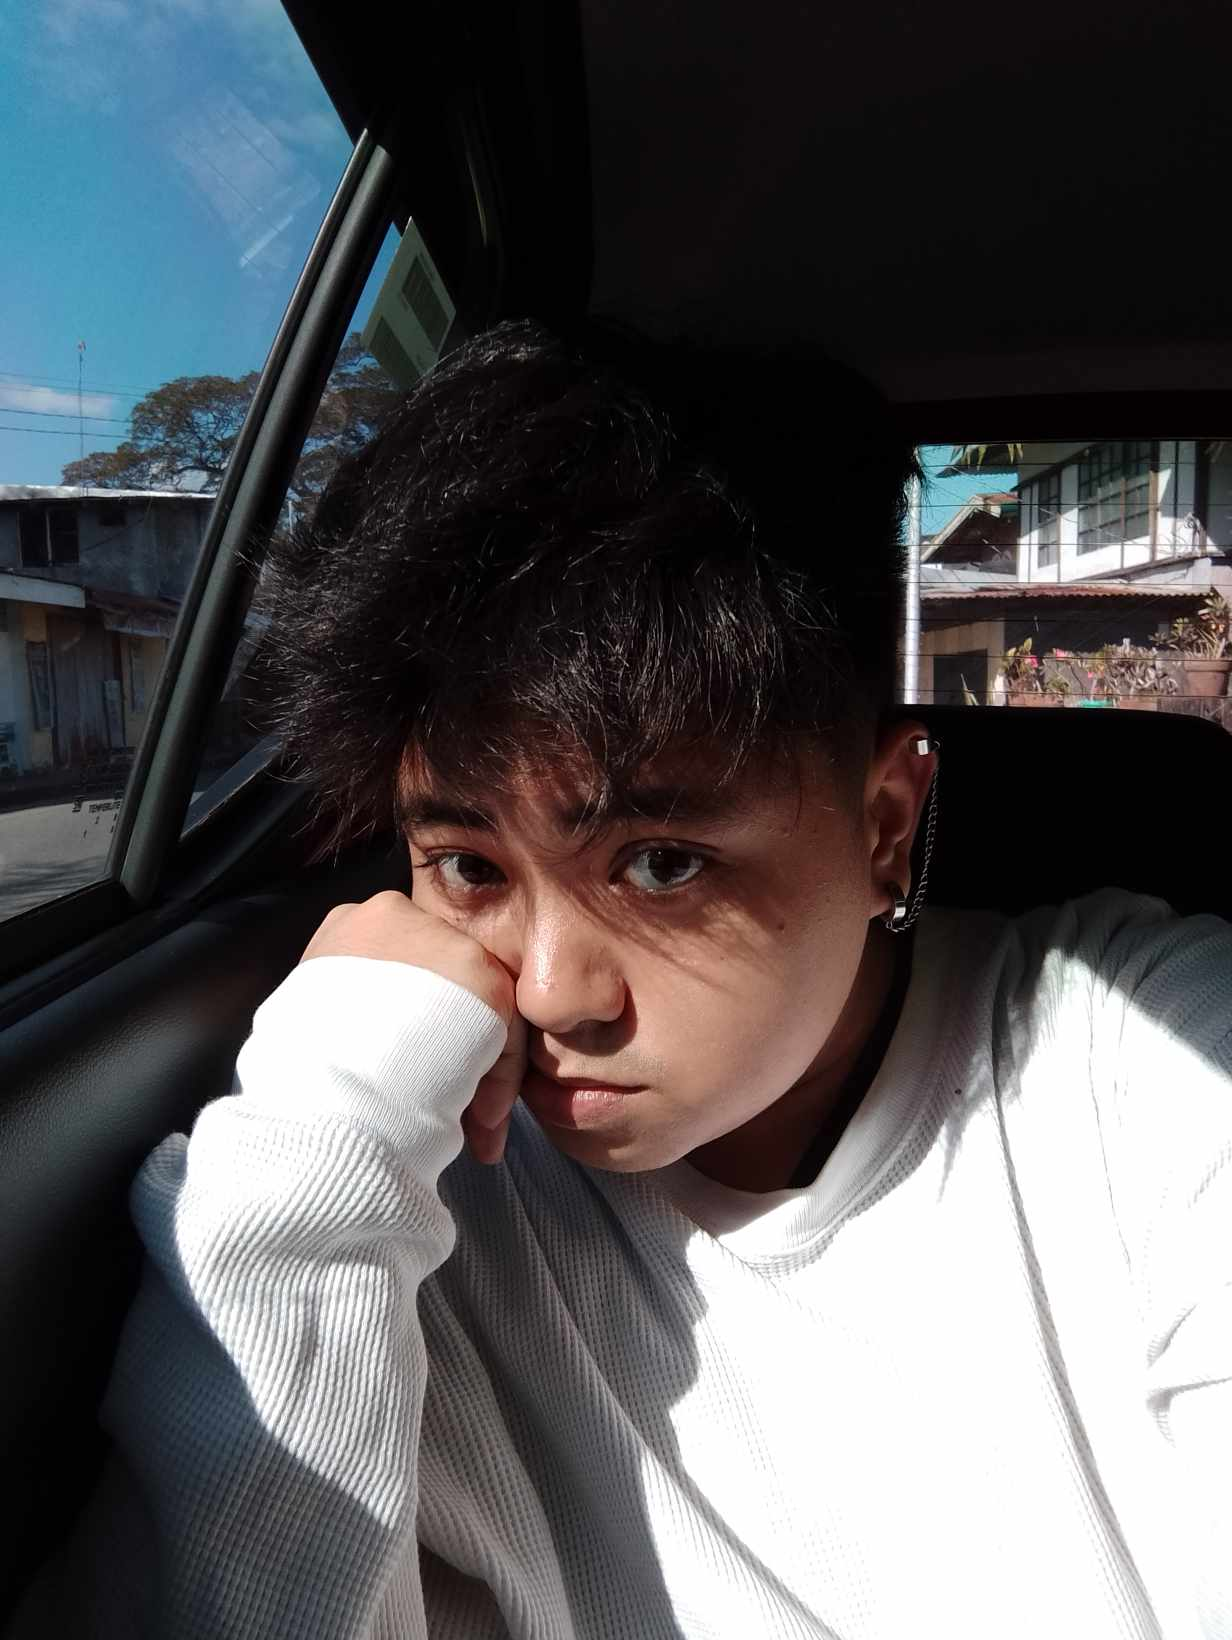
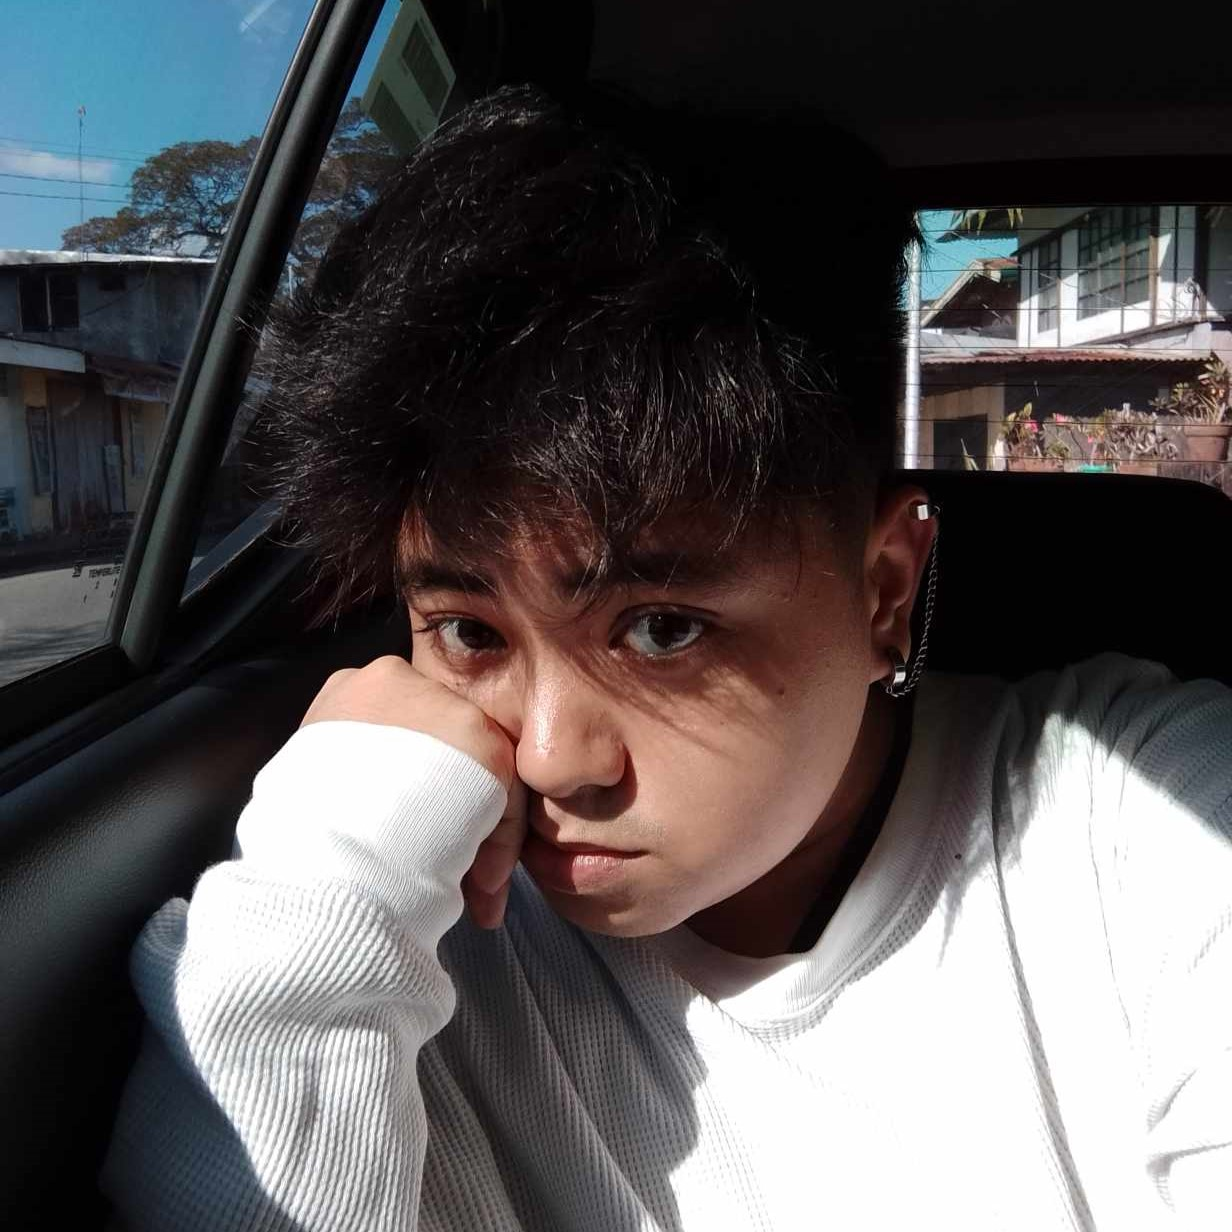
add pic

diff --git a/index.html b/index.html
@@ -428,11 +428,11 @@
                   <div class="card-wrapper">
 
                     <div class="profile-card">
-                      <img src="img/pusa.png" width="48" height="48" loading="lazy" alt="Joseph"
+                      <img src="img/413176132_1490694741788327_6171468843337700105_n.jpg" width="48" height="48" loading="lazy" alt="Joseph"
                         class="profile-banner">
 
                       <div>
-                        <p class="card-title">Yajie</p>
+                        <p class="card-title">Carlos Yajie</p>
 
                         <p class="card-subtitle">1 May 2024</p>
                       </div>
@@ -484,7 +484,7 @@
                         class="profile-banner">
 
                       <div>
-                        <p class="card-title">Joseph</p>
+                        <p class="card-title">Ryle Calingasan</p>
 
                         <p class="card-subtitle">25 Nov 2022</p>
                       </div>
@@ -536,7 +536,7 @@
                         class="profile-banner">
 
                       <div>
-                        <p class="card-title">Joseph</p>
+                        <p class="card-title">Kurt Isaac</p>
 
                         <p class="card-subtitle">25 Nov 2022</p>
                       </div>
@@ -584,11 +584,11 @@
                   <div class="card-wrapper">
 
                     <div class="profile-card">
-                      <img src="./assets/images/author-1.png" width="48" height="48" loading="lazy" alt="Joseph"
+                      <img src="img/received_1566086830894722 (1).jpeg" width="48" height="48" loading="lazy" alt="Joseph"
                         class="profile-banner">
 
                       <div>
-                        <p class="card-title">Joseph</p>
+                        <p class="card-title">Adrian Camota</p>
 
                         <p class="card-subtitle">25 Nov 2022</p>
                       </div>
@@ -636,11 +636,11 @@
                   <div class="card-wrapper">
 
                     <div class="profile-card">
-                      <img src="./assets/images/author-1.png" width="48" height="48" loading="lazy" alt="Joseph"
+                      <img src="img/pic.jpg" width="48" height="48" loading="lazy" alt="Joseph"
                         class="profile-banner">
 
                       <div>
-                        <p class="card-title">Joseph</p>
+                        <p class="card-title">Eiman Bisa</p>
 
                         <p class="card-subtitle">25 Nov 2022</p>
                       </div>
@@ -1219,7 +1219,7 @@ Tori told us: “Climate justice for me is about survival and a very rudimentary
                   <div class="popular-card">
 
                     <figure class="card-banner img-holder" style="--width: 64; --height: 64;">
-                      <img src="./assets/images/popular-post-1.jpg" width="64" height="64" loading="lazy"
+                      <img src="img/pic.jpg" width="64" height="64" loading="lazy"
                         alt="Creating is a privilege but it’s also a gift" class="img-cover">
                     </figure>
 
@@ -1547,36 +1547,43 @@ Tori told us: “Climate justice for me is about survival and a very rudimentary
                 </li>
 
                 <li>
-                  <a href="#" class="insta-post img-holder" style="--width: 276; --height: 277;">
-                    <img src="./assets/images/insta-post-4.png" width="276" height="277" loading="lazy" alt="insta post"
+                  <a href="https://www.instagram.com/eimanbisa/" class="insta-post img-holder" style="--width: 276; --height: 277;">
+                    <img src="img/pic.jpg" width="276" height="277" loading="lazy" alt="insta post"
                       class="img-cover">
                   </a>
                 </li>
 
                 <li>
-                  <a href="#" class="insta-post img-holder" style="--width: 276; --height: 277;">
+                  <a href="https://www.instagram.com/aerhoze22/" class="insta-post img-holder" style="--width: 276; --height: 277;">
                     <img src="./assets/images/insta-post-5.png" width="276" height="277" loading="lazy" alt="insta post"
                       class="img-cover">
                   </a>
                 </li>
 
                 <li>
-                  <a href="#" class="insta-post img-holder" style="--width: 276; --height: 277;">
+                  <a href="https://www.facebook.com/zyrelllj.hidalgo?mibextid=ZbWKwL" class="insta-post img-holder" style="--width: 276; --height: 277;">
                     <img src="./assets/images/insta-post-6.png" width="276" height="277" loading="lazy" alt="insta post"
                       class="img-cover">
                   </a>
                 </li>
 
                 <li>
-                  <a href="#" class="insta-post img-holder" style="--width: 276; --height: 277;">
+                  <a href="https://www.instagram.com/ryhnmmx?igsh=MTl5cnprbzE0bWJpdw==" class="insta-post img-holder" style="--width: 276; --height: 277;">
                     <img src="./assets/images/insta-post-7.png" width="276" height="277" loading="lazy" alt="insta post"
                       class="img-cover">
                   </a>
                 </li>
 
                 <li>
-                  <a href="#" class="insta-post img-holder" style="--width: 276; --height: 277;">
+                  <a href="https://www.instagram.com/den_ryle?igsh=MWg3cG1nY2U3emkxaQ== " class="insta-post img-holder" style="--width: 276; --height: 277;">
                     <img src="./assets/images/insta-post-8.png" width="276" height="277" loading="lazy" alt="insta post"
+                      class="img-cover">
+                  </a>
+                </li>
+
+                <li>
+                  <a href=" https://www.instagram.com/aintkurtt/" class="insta-post img-holder" style="--width: 276; --height: 277;">
+                    <img src="./assets/images/insta-post-9.png" width="276" height="277" loading="lazy" alt="insta post"
                       class="img-cover">
                   </a>
                 </li>
